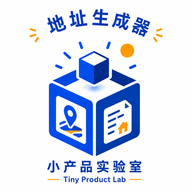
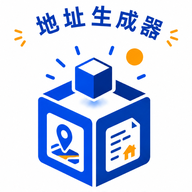
图标只保留"地址生成器"+盒子，去掉底部"小产品实验室"
装到手机主屏后要一眼看出是什么工具，所以图标只留上方"地址生成器"
和中间的盒子。内容从 703x922 变成 703x777，接近正方形，同样图标
尺寸下字大了约 1.2 倍。

maskable 版按实测墨迹半径缩放到 73.2%，在最严格的圆形遮罩下
"地址生成器"五个字完整不被切。

diff --git a/service-worker.js b/service-worker.js
@@ -11,7 +11,7 @@
  * 这一条是硬要求：OpenStreetMap 的瓦片使用政策禁止批量下载与离线囤积，
  * 所以 SW 必须对 tile 服务直接放行到网络，绝不写进 Cache Storage。
  */
-const VERSION = '2026.09.07.2';
+const VERSION = '2026.09.07.3';
 const SHELL_CACHE = `addrgen-shell-${VERSION}`;
 const RUNTIME_CACHE = `addrgen-runtime-${VERSION}`;
 
